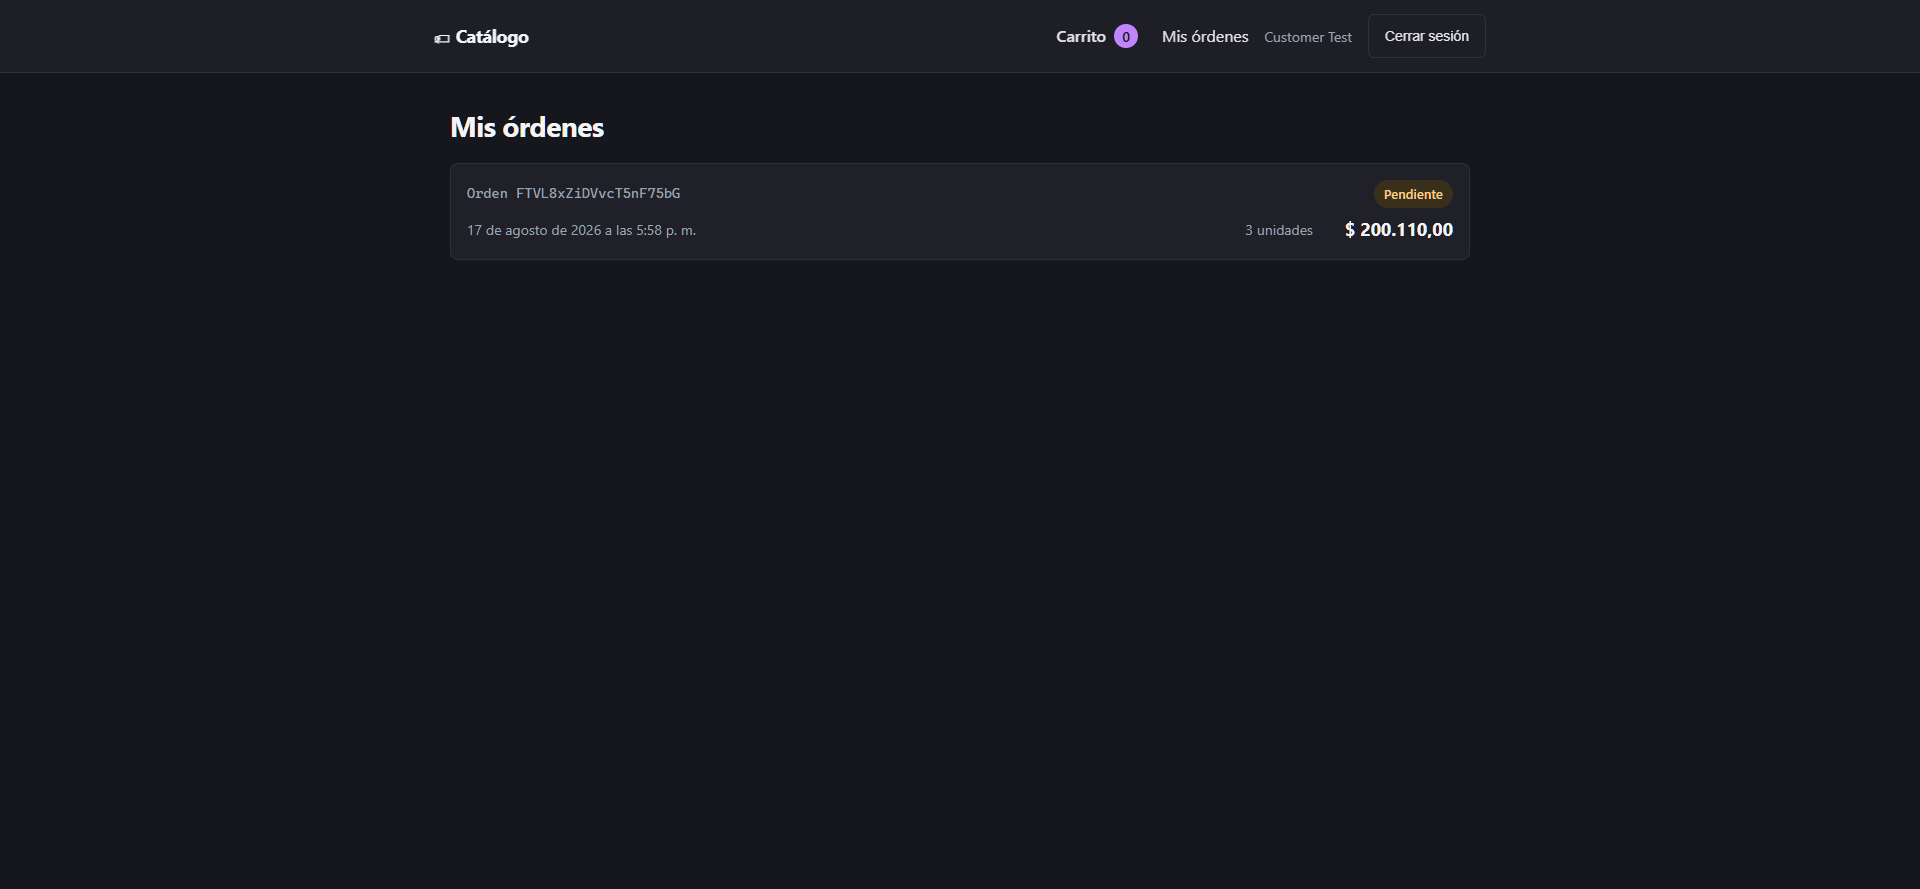
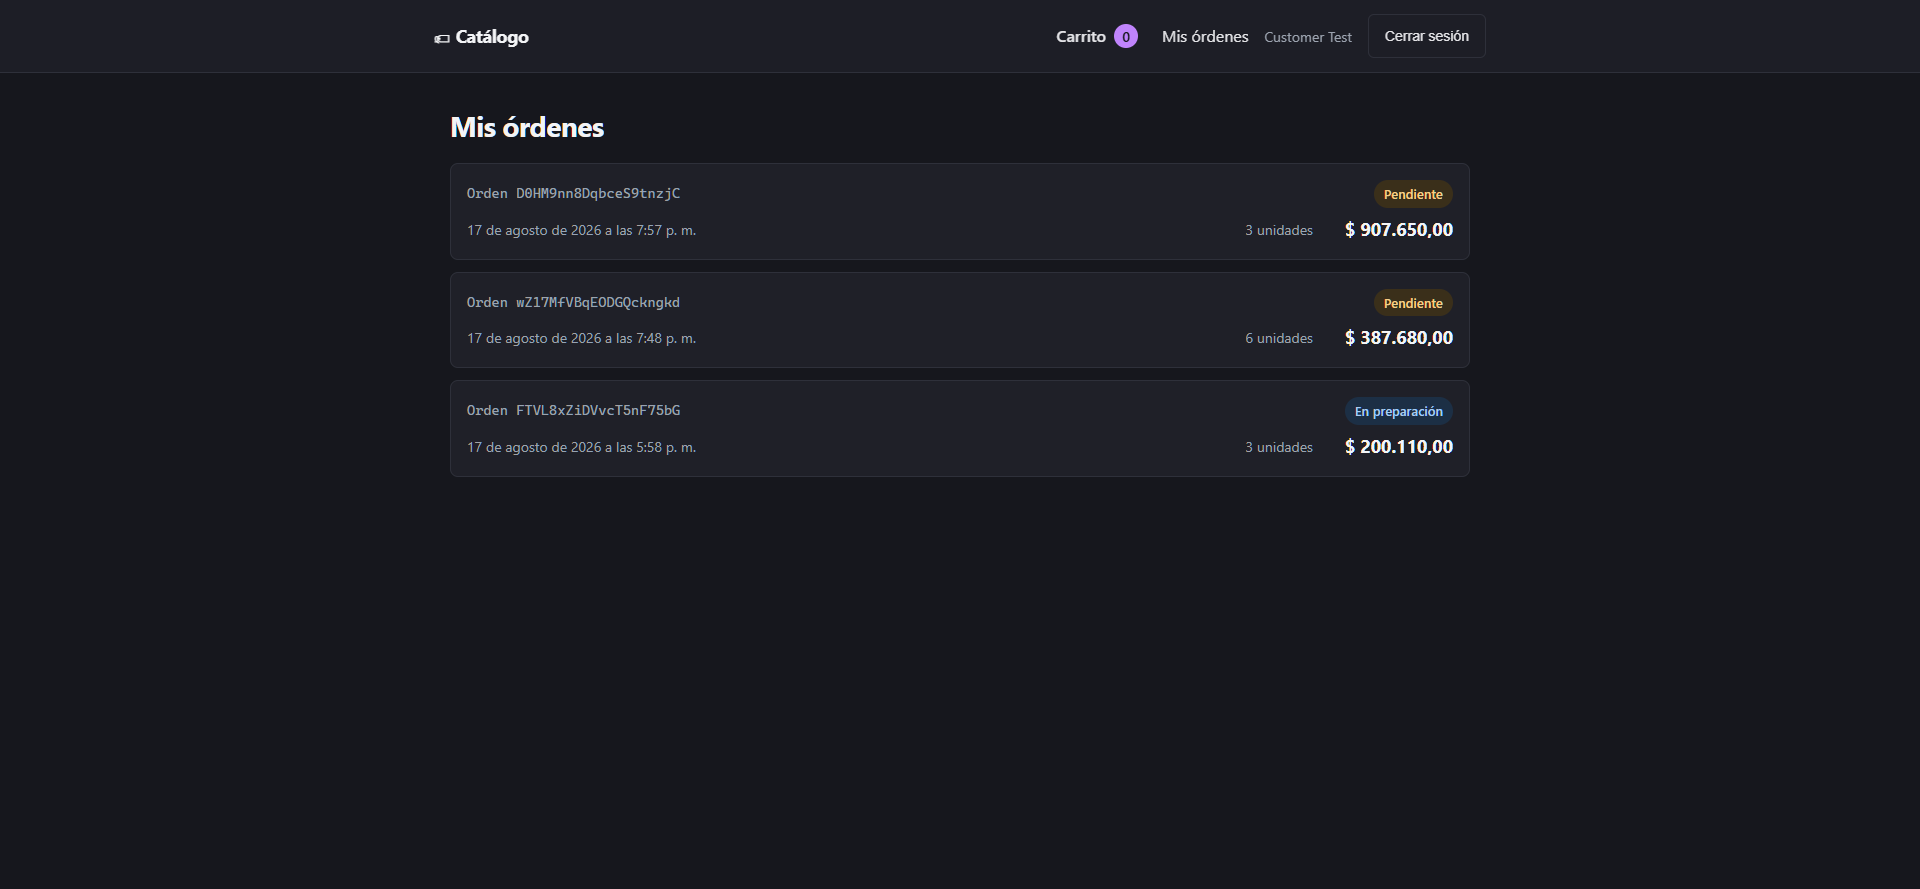
Mantener el foco tras aplicar un cambio de estado y actualizar las evidencias

diff --git a/src/pages/AdminOrdersPage.tsx b/src/pages/AdminOrdersPage.tsx
@@ -36,6 +36,11 @@ export function AdminOrdersPage() {
 
   const [actionError, setActionError] = useState<string | null>(null);
 
+  // Confirmación del cambio aplicado. Se anuncia en una región live: sin ella,
+  // quien usa un lector de pantalla solo percibe que la confirmación desapareció,
+  // sin saber si el cambio se guardó o si se canceló.
+  const [successMessage, setSuccessMessage] = useState<string | null>(null);
+
   // ---------------------------------------------------------------------------
   // MANEJO DEL FOCO DE LA CONFIRMACIÓN
   // ---------------------------------------------------------------------------
@@ -51,6 +56,17 @@ export function AdminOrdersPage() {
   // esto, cancelar deja el foco en la nada y hay que volver a recorrer la página
   // entera para retomar donde se estaba.
   const triggerRef = useRef<HTMLSelectElement | null>(null);
+
+  // Al confirmar con éxito, la lista se recarga y el <select> que abrió la
+  // confirmación deja de existir en el DOM. Devolverle el foco no sirve: es un
+  // nodo desprendido, y el foco termina cayendo en el <body> — quien navega con
+  // teclado queda en la nada y tiene que tabular desde el principio de la página.
+  //
+  // Por eso el foco va al encabezado de la sección, que sí sobrevive a la
+  // recarga. Necesita tabIndex={-1} para poder recibirlo: los encabezados no son
+  // enfocables por defecto, y ese valor lo hace enfocable por código SIN
+  // agregarlo al recorrido del tabulador.
+  const headingRef = useRef<HTMLHeadingElement>(null);
 
   useEffect(() => {
     if (pendingChange) {
@@ -84,6 +100,7 @@ export function AdminOrdersPage() {
 
     if (parsed.success) {
       setActionError(null);
+      setSuccessMessage(null);
       triggerRef.current = select;
       setPendingChange({ order, nextStatus: parsed.data });
     }
@@ -106,6 +123,13 @@ export function AdminOrdersPage() {
       // estuvieran en el finally, se cerraría la confirmación y se recargaría la
       // lista incluso cuando la escritura falló.
       setPendingChange(null);
+      setSuccessMessage(
+        `La orden ${order.id} pasó a ${ORDER_STATUS_LABELS[nextStatus]}.`,
+      );
+
+      // El foco se mueve al encabezado de la sección, no al selector que abrió
+      // la confirmación: ese selector está por desaparecer con la recarga.
+      headingRef.current?.focus();
 
       // Se recarga desde Firestore en vez de actualizar la fila en memoria. Es
       // una lectura más, pero garantiza que lo que se ve sea lo que quedó
@@ -249,7 +273,17 @@ export function AdminOrdersPage() {
 
   return (
     <section className="admin-orders">
-      <h2>Órdenes</h2>
+      {/* tabIndex={-1}: enfocable por código, pero fuera del recorrido del
+          tabulador. Es a donde se manda el foco después de un cambio exitoso. */}
+      <h2 ref={headingRef} tabIndex={-1}>
+        Órdenes
+      </h2>
+
+      {successMessage && (
+        <p className="admin-orders__success" role="status">
+          {successMessage}
+        </p>
+      )}
 
       <div className="admin-orders__filter">
         <label htmlFor="filtro-estado">Filtrar por estado</label>

diff --git a/src/pages/AdminOrdersPage.test.tsx b/src/pages/AdminOrdersPage.test.tsx
@@ -286,6 +286,42 @@ describe("AdminOrdersPage — accesibilidad de la confirmación", () => {
     expect(updateOrderStatus).not.toHaveBeenCalled();
   });
 
+  it("al confirmar con éxito, el foco no se pierde en el body", async () => {
+    const user = userEvent.setup();
+    vi.mocked(listOrders).mockResolvedValue([makeOrder({ id: "o-1", status: "pending" })]);
+
+    renderWithProviders(<AdminOrdersPage />);
+    await screen.findByLabelText(/cambiar el estado de la orden o-1/i);
+
+    await user.selectOptions(selectorDeEstado("o-1"), "processing");
+    await user.click(await screen.findByRole("button", { name: /sí, cambiar el estado/i }));
+
+    // No se puede devolver el foco al <select> que abrió la confirmación: la
+    // lista se recarga y ese nodo deja de existir, así que el foco terminaría en
+    // el <body> y quien navega con teclado tendría que empezar de nuevo desde
+    // arriba de la página. Va al encabezado de la sección, que sobrevive.
+    await waitFor(() => {
+      expect(screen.getByRole("heading", { name: "Órdenes" })).toHaveFocus();
+    });
+  });
+
+  it("anuncia el cambio aplicado en una región live", async () => {
+    const user = userEvent.setup();
+    vi.mocked(listOrders).mockResolvedValue([makeOrder({ id: "o-1", status: "pending" })]);
+
+    renderWithProviders(<AdminOrdersPage />);
+    await screen.findByLabelText(/cambiar el estado de la orden o-1/i);
+
+    await user.selectOptions(selectorDeEstado("o-1"), "processing");
+    await user.click(await screen.findByRole("button", { name: /sí, cambiar el estado/i }));
+
+    // Sin este mensaje, quien usa un lector de pantalla solo percibe que la
+    // confirmación desapareció, sin saber si el cambio se guardó o se canceló.
+    expect(await screen.findByRole("status")).toHaveTextContent(
+      /la orden o-1 pasó a En preparación/i,
+    );
+  });
+
   it("al cancelar devuelve el foco al selector que lo abrió", async () => {
     const user = userEvent.setup();
     vi.mocked(listOrders).mockResolvedValue([makeOrder({ id: "o-1", status: "pending" })]);

diff --git a/src/index.css b/src/index.css
@@ -1592,3 +1592,20 @@ h1 {
     transition: none;
   }
 }
+
+/* Confirmación de que el cambio de estado se aplicó. Es una región live: se
+   anuncia sola al aparecer, sin que el usuario tenga que ir a buscarla. */
+.admin-orders__success {
+  margin-bottom: 20px;
+  padding: 12px 16px;
+  border: 1px solid var(--status-completed-text);
+  border-radius: 8px;
+  background: var(--status-completed-bg);
+  color: var(--status-completed-text);
+}
+
+/* El encabezado recibe el foco tras un cambio exitoso. Sin outline-offset, el
+   anillo queda pegado a las letras y se lee como un error de maquetado. */
+.admin-orders h2:focus-visible {
+  outline-offset: 4px;
+}

diff --git a/README.md b/README.md
@@ -6,7 +6,7 @@ Construido sobre la base del proyecto anterior ([L7 — Release Candidate del E-
 
 | | |
 |---|---|
-| Tests | 524 en 28 archivos |
+| Tests | 526 en 28 archivos |
 | Pruebas de reglas | 28 contra Firestore real ([resultado](docs/verificacion-reglas.txt)) |
 | CI | Lint, type-check, tests y build en cada push y PR |
 | Decisiones y uso de IA | [`docs/ai-notes.md`](docs/ai-notes.md) |
